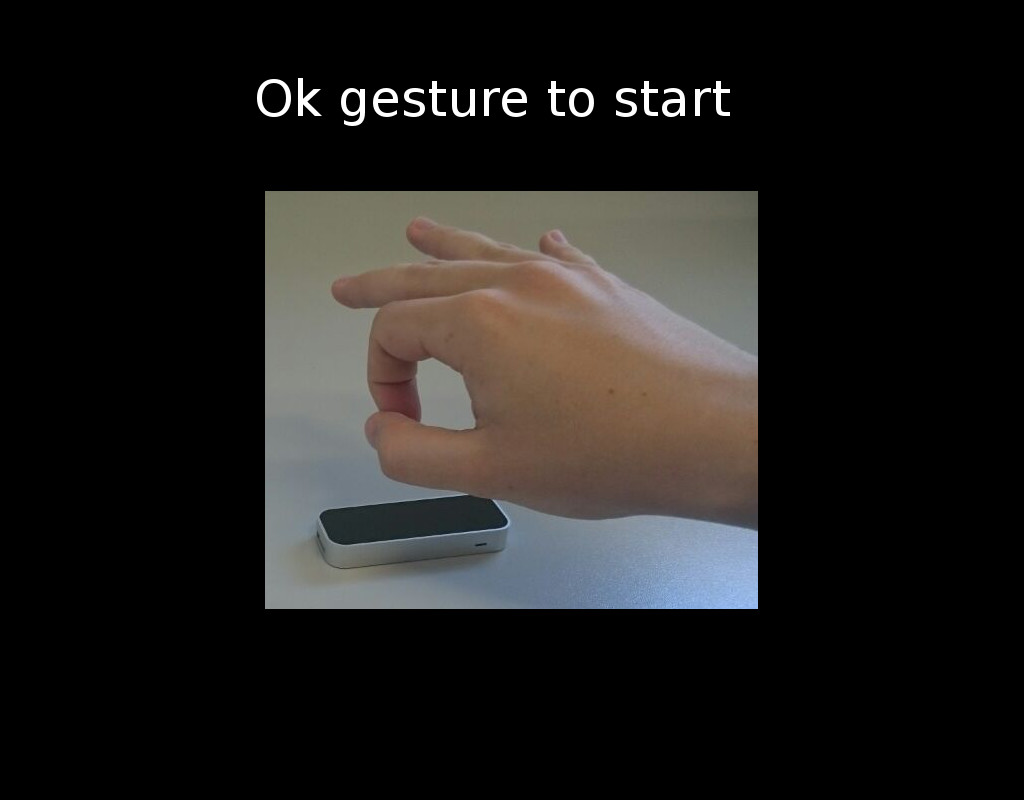
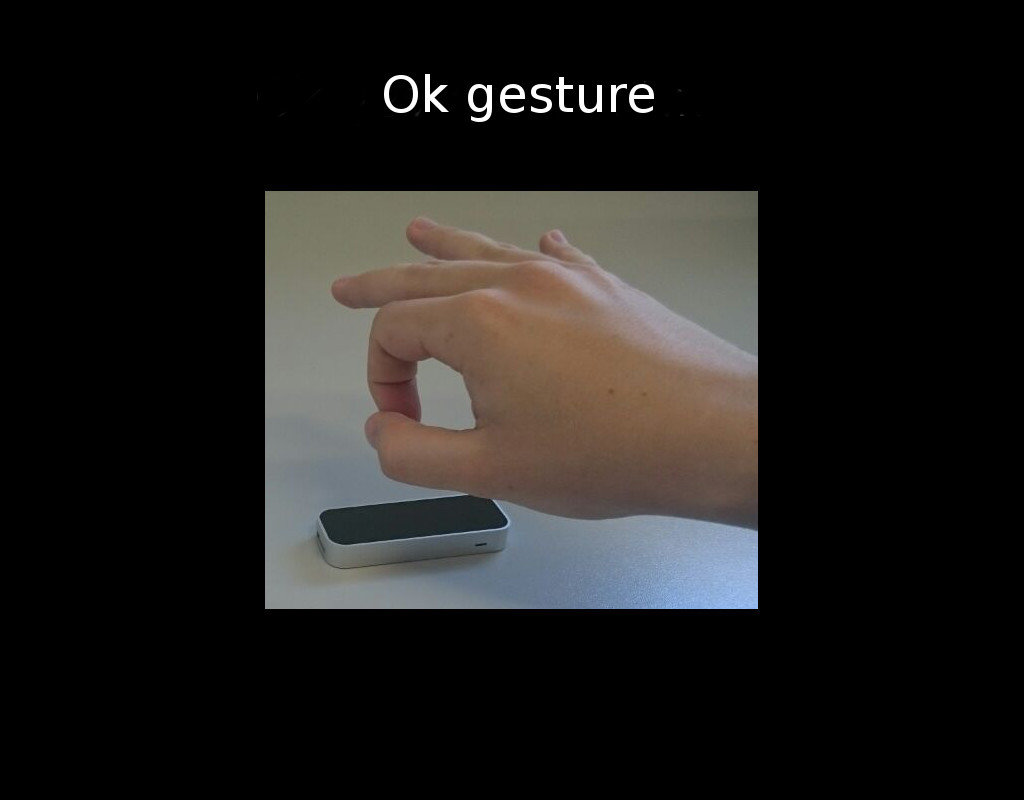
Added ok gesture to close
Also changed an image from the tutorial
This closes #4 and closes #5

Changed region(s): [[0.25, 0.0938, 0.7188, 0.1562]]

diff --git a/Finger_run/utils/graphics.py b/Finger_run/utils/graphics.py
@@ -27,6 +27,7 @@ Values to track game status
 '''
 steps = 0
 running = False
+counter = 0
 
 
 '''
@@ -208,6 +209,22 @@ def drawSteps(steps):
 	glPopMatrix()
 
 '''
+Function that shows @text
+'''
+def drawText(text):
+	glPushMatrix()
+	glLoadIdentity()
+
+	glColor3f(1.0,1.0,0.0)
+	glRasterPos2f( -300.0,0 )
+	glScalef(20.0,20.0,20.0)
+
+	for letter in text:
+		glutBitmapCharacter(GLUT_BITMAP_HELVETICA_18, ord(letter))
+
+	glPopMatrix()
+
+'''
 Function that draws the scene
 '''
 def draw():
@@ -218,20 +235,37 @@ def draw():
 	setCamera()
 
 	#Game status control
-	global steps, running
+	global steps, running, counter
 
 	frame = controller.frame()
 
 	if running:
+		drawText("Hold Ok gesture to close")
 		for hand in frame.hands:
 
-			if gesture.detectRunGesture(hand, tolerance):
+			if gesture.detectRunGesture(hand, tolerance): #If a step is detected, count it
 				steps = steps + 1
+
+			#If ok gesture is detected for 60 frames, close the game
+
+			if gesture.detectOKGesture(hand, tolerance): 
+				counter = counter + 1
+			else:
+				counter = 0
+
+			if counter > 60:
+				sys.exit(0)
+
+
+
 	else:
+		drawText("Ok gesture to start")
+
 		for hand in frame.hands:
 			if gesture.detectOKGesture(hand, tolerance):
 				running = True
 				pygame.mixer.music.play(-1)
+			
 
 	drawLeap()
 	drawHands(frame.hands)
